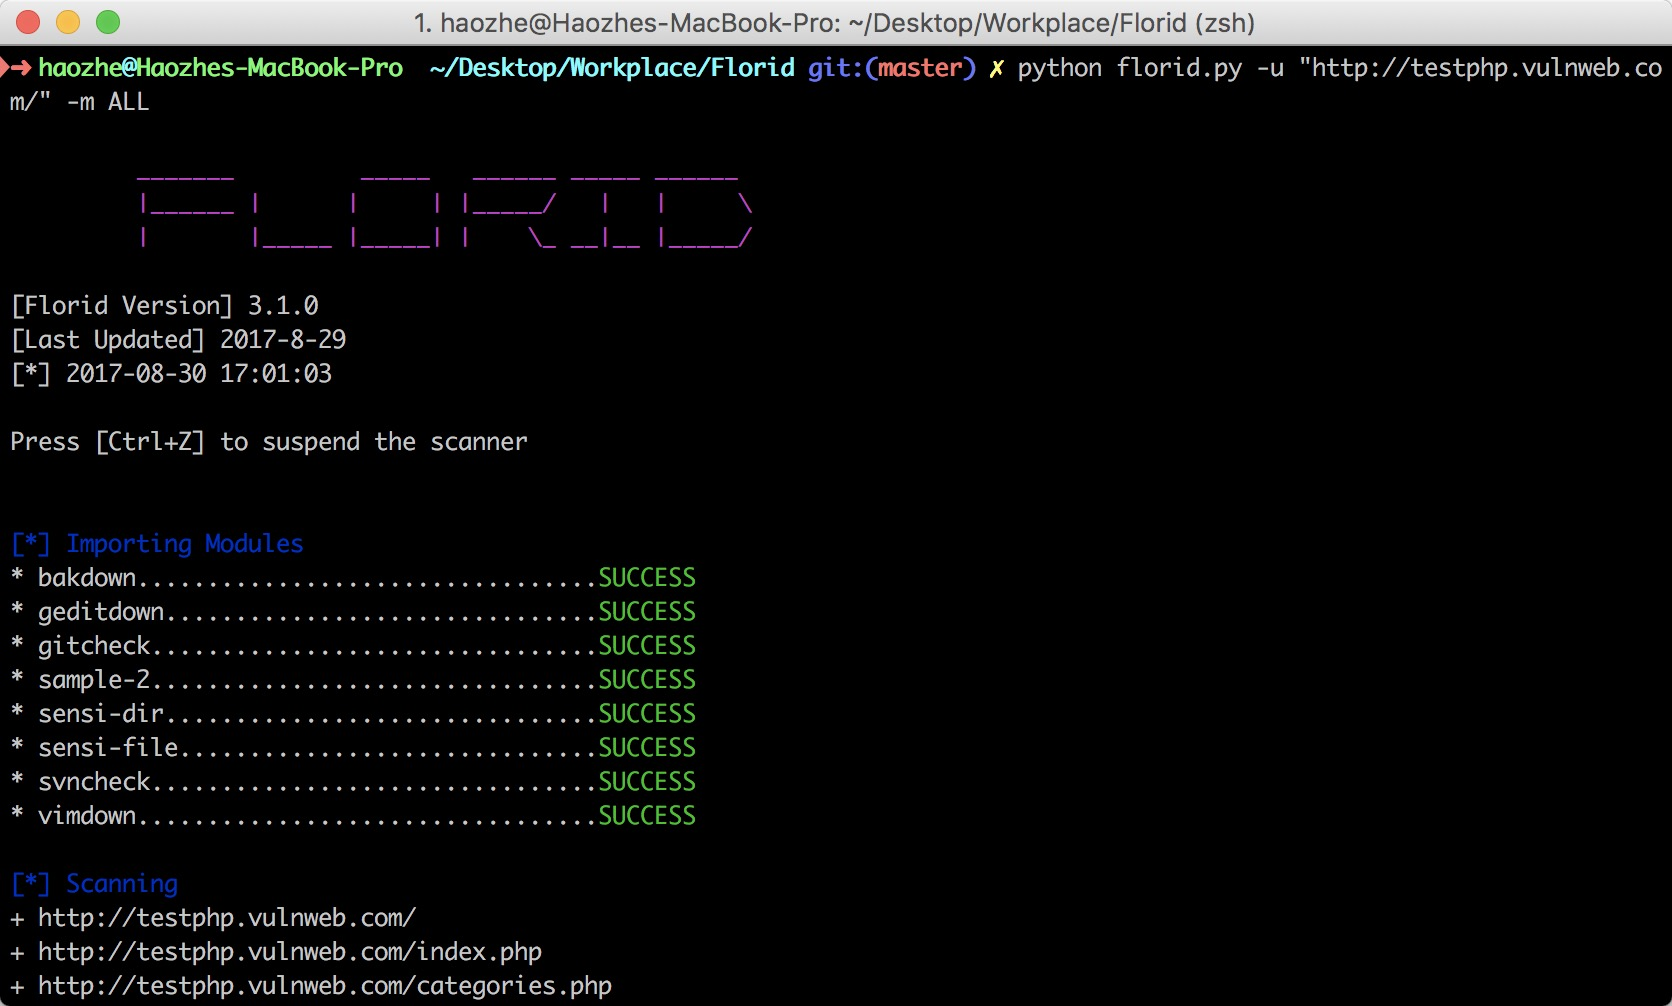
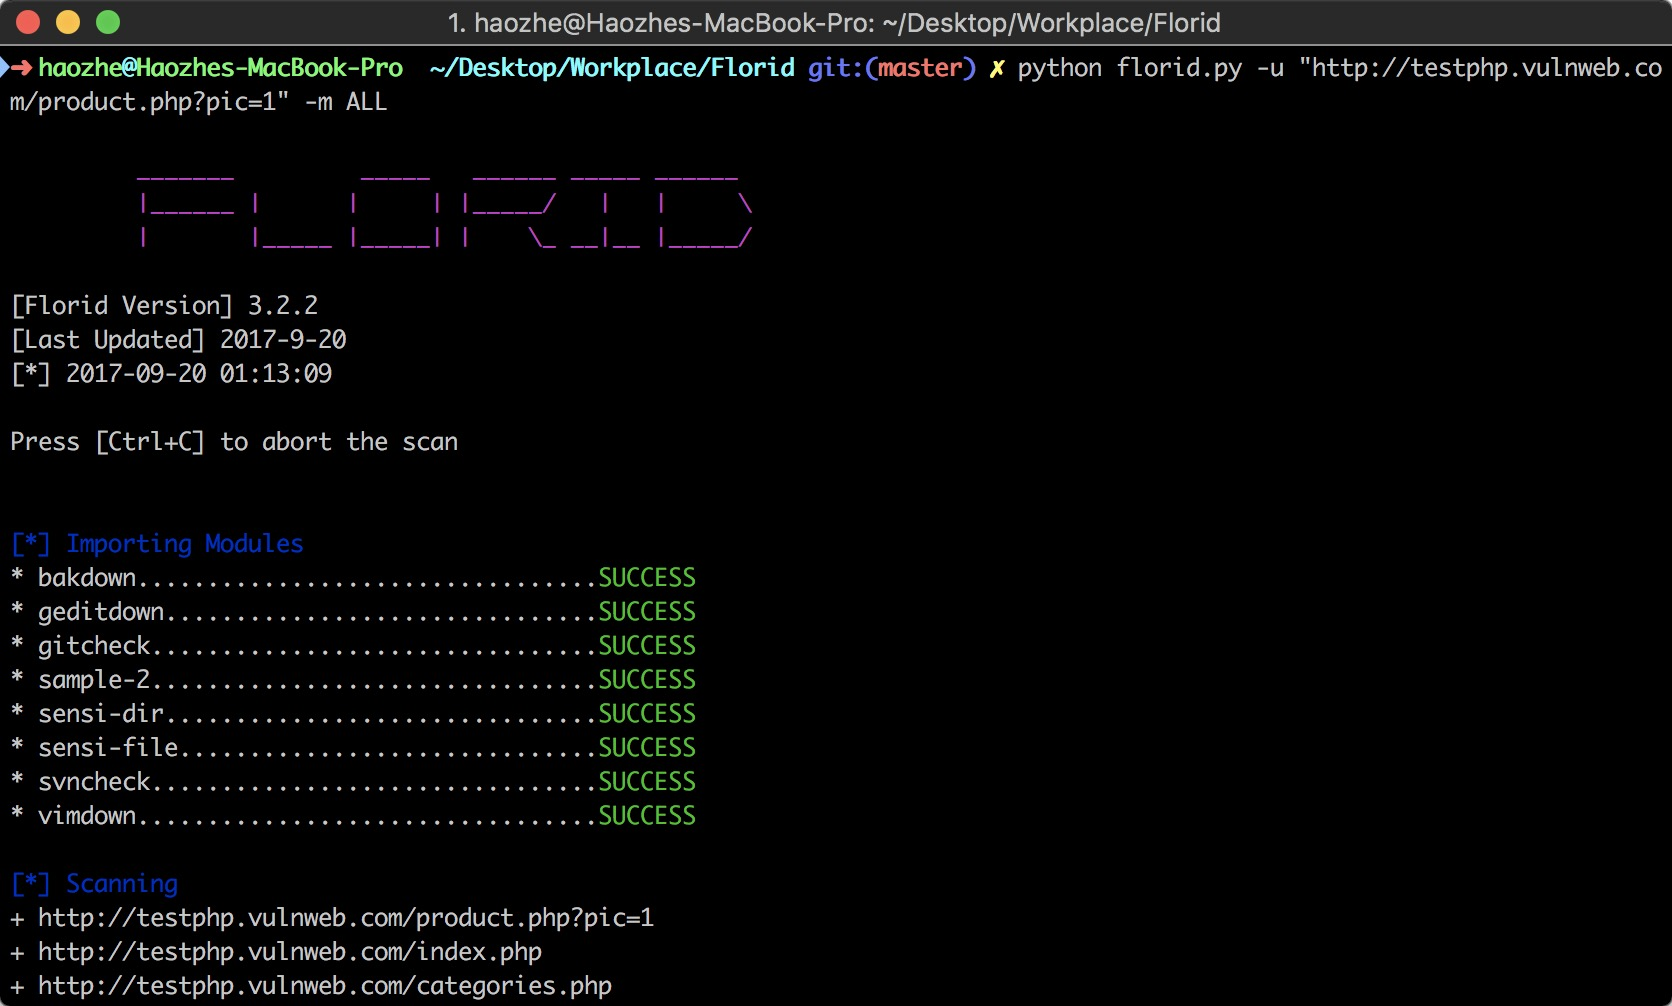
3.2.2

diff --git a/core/checker.py b/core/checker.py
@@ -1,9 +1,11 @@
-import config
+import config.config
 import lib.colorprint
 import lib.common
 
 
 class Checker(object):
+    # It's just a object to handle the URLs.
+    # It works as a queue handler.
     def __init__(self):
         self.url_queue = []
         self.count_elements = 0
@@ -33,32 +35,48 @@ class ResultPrinter(object):
         self.phase_one_printed = False
 
     def run(self):
+        # Do checking while modules left to be executed.
         while len(self.all_module_list) != 0:
-            if config.config['exit_without_result']:
+
+            # If it finds the signal of stop, just stop.
+            # It's based on the configuration.
+            if config.config.config['exit_without_result']:
                 if lib.common.FLAG['stop_signal']:
                     break
+
+            # Wait until the producer's task is finished.
+            # Or it will begin to check when there is no result
             if lib.common.FLAG['producer_done']:
-                # print the result of phase one
+                # Print the result of modules in phase one if it's not printed.
                 if not self.phase_one_printed:
                     one_finish_count = 0
-                    for _m_n in lib.common.MODULE_ONE_NAME_LIST:
-                        one_finish_count += lib.common.ALIVE_LINE[_m_n]
+                    for __module_name in lib.common.MODULE_ONE_NAME_LIST:
+                        one_finish_count += lib.common.ALIVE_LINE[__module_name]
+                        # If the module's task is completed, the ALIVE_LINE value would be one.
+                        # Else, it would be zero.
+
                     if one_finish_count == len(lib.common.MODULE_ONE_NAME_LIST):
                         lib.colorprint.color().sky_blue('[====\t' + 'Site Info'.ljust(14) + '====]')
                         for __key in lib.common.RESULT_ONE_DICT:
                             print __key + ':\t' + lib.common.RESULT_ONE_DICT[__key]
                         self.phase_one_printed = True
                         print
+
+                # The printing process for modules in phase one is completed.
+                # Now it's time to print the results for modules in phase two.
                 if self.phase_one_printed:
                     for __module_name in self.all_module_list:
                         if lib.common.ALIVE_LINE[__module_name] >= 0:
                             title = '[====\t' + __module_name.ljust(14) + '====]'
                             lib.colorprint.color().sky_blue(title)
                             self.all_module_list.remove(__module_name)
+                            # Result of the certain module has been printed.
+                            # Remove this module from the list.
 
                             for item in lib.common.RESULT_DICT[__module_name]:
                                 lib.colorprint.color().green('\t> ' + item)
-                            # pprint.pprint(lib.common.RESULT_DICT[__module_name])
-
                             print
+
+        if lib.common.FLAG['stop_signal']:
+            lib.colorprint.color().yellow('[!] User abort. Results may be not completed.')
         lib.common.FLAG['scan_done'] = True

diff --git a/core/producer.py b/core/producer.py
@@ -25,9 +25,9 @@ class Producer(object):
         self.log_fp = open(
             lib.common.CONFIG['project_path'] + '/log/' + self.__source_url_obj.get_hostname() + '/urllist.txt', 'w+')
 
-    def __find_joint(self, soup, tag1, tag2):
-        for tag in soup.find_all(tag1):
-            url_new = urlparse.urljoin(self.__source_url_obj.get_url(), tag.get(tag2))
+    def __find_joint(self, soup, tags, attribute):
+        for tag in soup.find_all(tags):
+            url_new = urlparse.urljoin(self.__source_url_obj.get_url(), tag.get(attribute))
             url_new_obj = lib.urlentity.URLEntity(url_new)
             if url_new_obj.get_url() not in self.crawled_list and url_new_obj.get_hostname() == self.__source_url_obj.get_hostname() and '#' not in url_new_obj.get_url():
                 self.waiting_list.append(url_new_obj.get_url())
@@ -43,8 +43,11 @@ class Producer(object):
                     break
                 print '\r+ ' + self.waiting_list[0]
                 try:
-                    if self.waiting_list[0].endswith('png') or self.waiting_list[0].endswith('jpg') or \
-                            self.waiting_list[0].endswith('bmp') or self.waiting_list[0].endswith('gif'):
+                    url_obj_to_be_checked = lib.urlentity.URLEntity(self.waiting_list[0])
+                    while url_obj_to_be_checked.get_file().lower().endswith('png') or \
+                            url_obj_to_be_checked.get_file().lower().endswith('jpg') or \
+                            url_obj_to_be_checked.get_file().lower().endswith('bmp') or \
+                            url_obj_to_be_checked.get_file().lower().endswith('gif'):
                         self.waiting_list.pop(0)
                     r = requests.get(url=self.waiting_list[0])
                     soup = bs4.BeautifulSoup(r.text, 'html.parser')
@@ -56,10 +59,11 @@ class Producer(object):
                 self.log_fp.writelines(self.waiting_list[0] + '\n')
                 self.waiting_list.pop(0)
 
-                self.__find_joint(soup=soup, tag1='a', tag2='href')
-                self.__find_joint(soup=soup, tag1='form', tag2='action')
-                self.__find_joint(soup=soup, tag1='link', tag2='href')
+                self.__find_joint(soup=soup, tags='a', attribute='href')
+                self.__find_joint(soup=soup, tags='form', attribute='action')
+                self.__find_joint(soup=soup, tags='link', attribute='href')
             lib.common.FLAG['producer_done'] = True
+        self.log_fp.close()
         lib.colorprint.color().yellow('[*] ' + str(lib.common.CHECKER_OBJ.get_total_length()) + ' URLs Found',
                                       end='\n\n')
 

diff --git a/core/consumer.py b/core/consumer.py
@@ -1,24 +1,36 @@
 import threading
 
-import config
+import config.config
 import lib.common
 
 
 class Consumer(object):
+    # A class designed to call Checker to consume URLs in Checker queue.
     def __int__(self):
         pass
 
-    # While the spider is still working or the queue is not empty yet
     def run(self):
-        for __module_name in lib.common.MODILE_ONE_OBJ_DICT:
-            threading.Thread(target=lib.common.MODILE_ONE_OBJ_DICT[__module_name].run, args=()).start()
+        # Run all modules in phase one to check the source URL.
+        # That's why there is no URL as parameter.
+        for __module_name in lib.common.MODULE_ONE_OBJ_DICT:
+            threading.Thread(target=lib.common.MODULE_ONE_OBJ_DICT[__module_name].run, args=()).start()
+
+        # While the checker still needs to work, or
+        # while printer still needs to work due to the items in the Checker queue.
         while not lib.common.CHECKER_OBJ.get_producer_state() or lib.common.CHECKER_OBJ.get_queue_length() > 0:
-            if config.config['exit_without_result']:
+            # Break immediately? Due to the config.py
+            if config.config.config['exit_without_result']:
                 if lib.common.FLAG['stop_signal']:
                     break
+            # If printer needs to work,
+            # get one URL from the Checker queue,
+            # hand this URL to all modules.
             if lib.common.CHECKER_OBJ.get_queue_length() > 0:
                 url_to_be_checked = lib.common.CHECKER_OBJ.queue_pop()
                 for __module_name in lib.common.MODULE_OBJ_DICT:
+                    # Every time a URL is submitted to a module, the ALIVE_LINE of this module will minus one.
+                    # Every time this module checked a URL, this value will be added by one.
+                    # (This is implemented in each module)
                     lib.common.ALIVE_LINE[__module_name] -= 1
                     t = threading.Thread(target=lib.common.MODULE_OBJ_DICT[__module_name].run,
                                          args=(url_to_be_checked,))

diff --git a/lib/urlentity.py b/lib/urlentity.py
@@ -3,6 +3,7 @@ import time
 
 import requests
 
+import config.config
 import lib.common
 
 
@@ -104,14 +105,19 @@ class URLEntity:
     def make_get_request(self, timeout=lib.common.TIME_OUT, delay=0):
         try:
             time.sleep(delay)
-            self.__response = requests.get(self.__url, timeout=timeout)
+            self.__response = requests.get(url=self.__url, \
+                                           headers=config.config.config['request_headers'], \
+                                           timeout=timeout)
         except Exception:
             self.__response = None
 
     def make_post_request(self, data, timeout=lib.common.TIME_OUT, delay=0):
         try:
             time.sleep(delay)
-            self.__response = requests.post(self.__url, data=data, timeout=timeout)
+            self.__response = requests.post(url=self.__url, \
+                                            data=data, \
+                                            headers=config.config.config['request_headers'], \
+                                            timeout=timeout)
         except Exception:
             self.__response = None
 

diff --git a/florid.py b/florid.py
@@ -23,8 +23,8 @@ reload(sys)
 sys.setdefaultencoding('utf8')
 
 florid_banner = {
-    'version': '3.2.1',
-    'update': '2017-9-16',
+    'version': '3.2.2',
+    'update': '2017-9-20',
     'logo':
         r'''
          _______         _____   ______ _____ ______ 
@@ -89,14 +89,12 @@ def florid_organize():
             if not alive:
                 break
 
-
     lib.colorprint.color().green('\n-- FINISH --\n')
 
 
 def florid_exit(signum, frame):
     lib.common.FLAG['stop_signal'] = True
-    lib.colorprint.color().red('\n\n[!] User abort')
-    # exit()
+    lib.colorprint.color().red('\n\n[!] User abort. Terminating the scan...')
 
 
 if __name__ == '__main__':

diff --git a/core/importer.py b/core/importer.py
@@ -8,11 +8,9 @@ class Importer(object):
 
     def import_one(self):
         for __module_name in lib.common.MODULE_ONE_NAME_LIST:
-            # print '*', __module_name, '\t',
             try:
                 __module_obj = __import__('module.phase_one.' + __module_name, fromlist=['*.py'])
-                # lib.colorprint.color().green('SUCCESS')
-                lib.common.MODILE_ONE_OBJ_DICT[__module_name] = __module_obj
+                lib.common.MODULE_ONE_OBJ_DICT[__module_name] = __module_obj
                 lib.common.ALIVE_LINE[__module_name] = 0
             except Exception, e:
                 lib.colorprint.color().red(str(e))

diff --git a/config/config.py b/config/config.py
@@ -1,0 +1,7 @@
+config = {
+    # If set False, the scanning process will be terminated immediately without showing any result when you press Ctrl+C
+    'exit_without_result': False,
+    'request_headers': {
+        'User-Agent': 'Mozilla/5.0 (Macintosh; Intel Mac OS X 10.12; rv:55.0) Gecko/20100101 Firefox/55.0'
+    }
+}

diff --git a/lib/common.py b/lib/common.py
@@ -26,7 +26,7 @@ CHECKER_OBJ = core.checker.Checker()
 MODULE_NAME_LIST = []
 MODULE_OBJ_DICT = {}
 MODULE_ONE_NAME_LIST = []
-MODILE_ONE_OBJ_DICT = {}
+MODULE_ONE_OBJ_DICT = {}
 
 # ----------------------------
 # Result Directory

diff --git a/README.md b/README.md
@@ -27,6 +27,11 @@ You are expected to develop your modules referring to `./module/phase_two/sample
 
 ### Update Log
 
+#### v 3.3.2
+* Fix bugs
+* Add comment
+* Try to allow customed configuration
+
 #### v 3.2.1
 * Configuration file added
 * Two modes available after you terminate the scanning process
